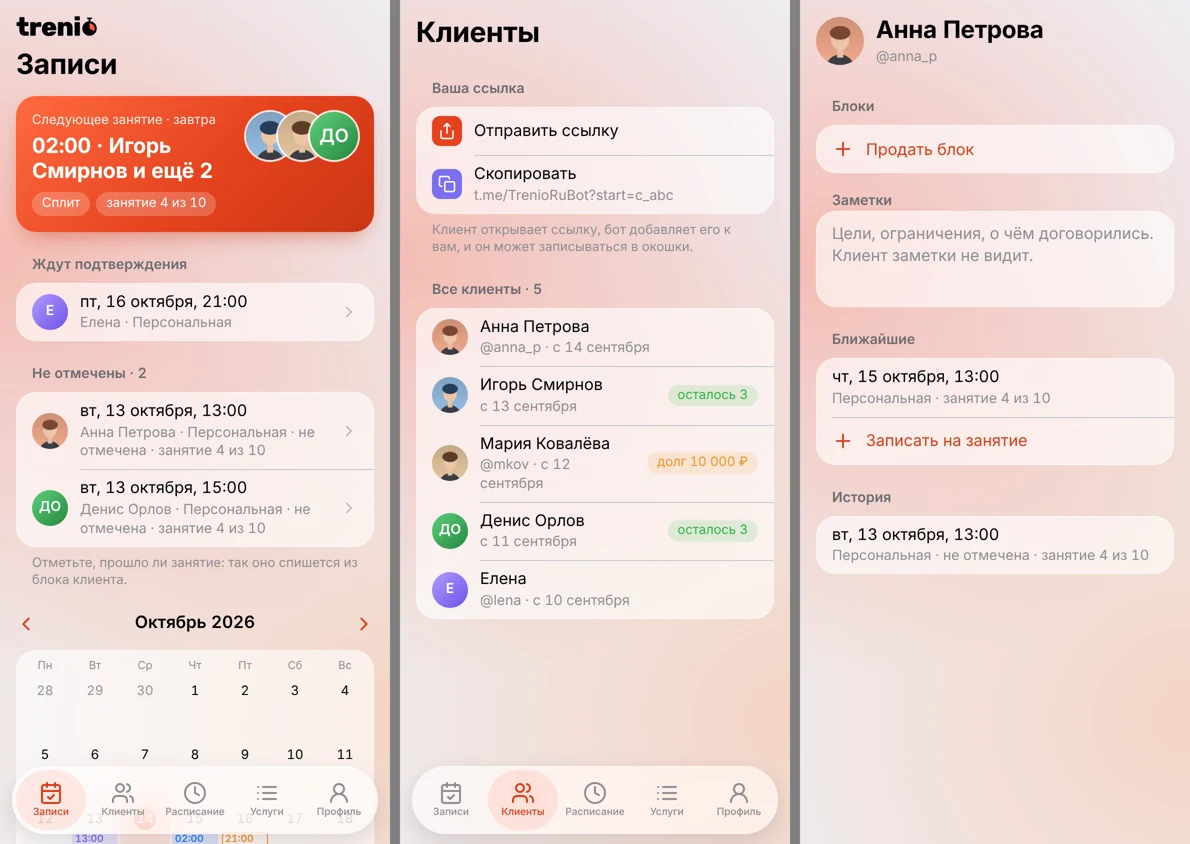
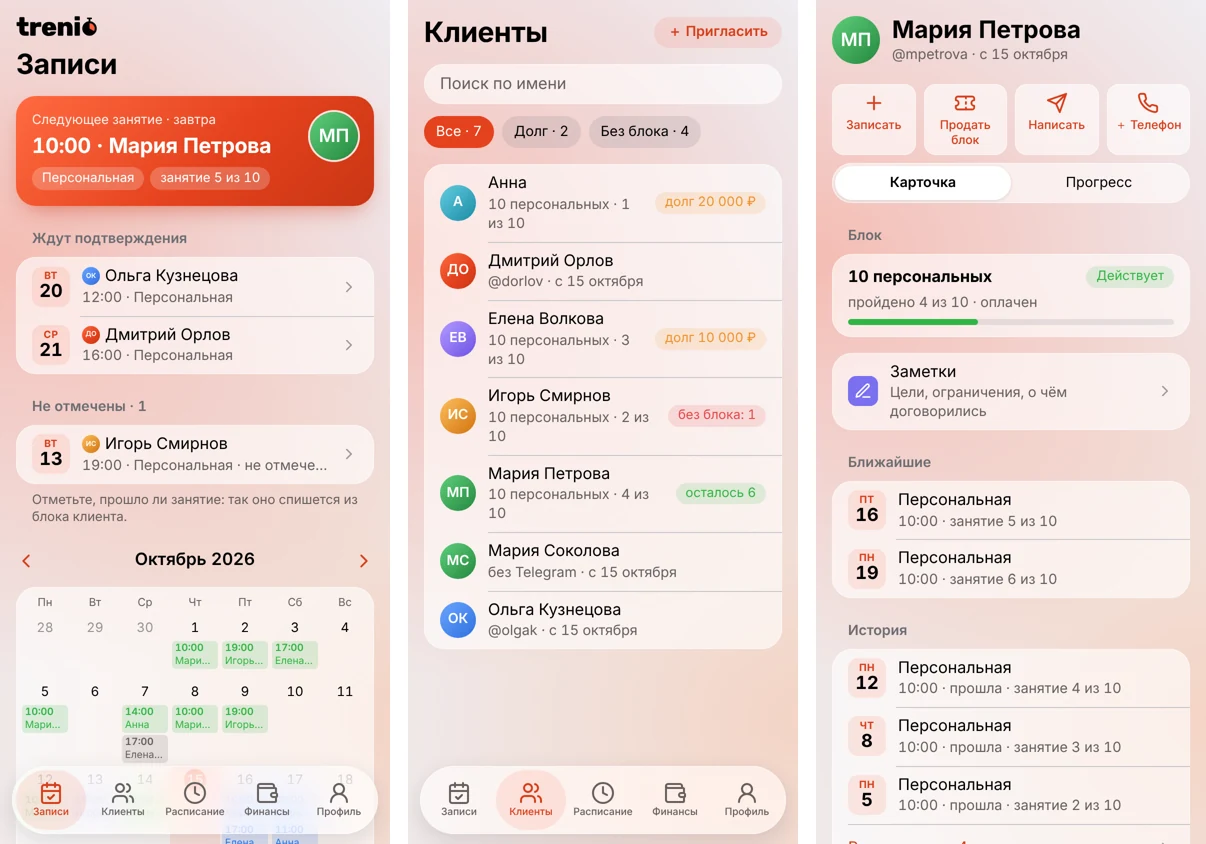
fix: отступ над подсказкой о блоке в карточке клиента (#69)

diff --git a/frontend/src/trainer/ClientCard.tsx b/frontend/src/trainer/ClientCard.tsx
@@ -235,12 +235,14 @@ export default function ClientCard({ client: initial, timezone, onBack, onChange
       {card !== null && (tab === 'card' || client.deleted) && (
         <>
           {client.deleted && (
-            <p className="card-hint missed">
+            <p className="card-hint client-hint missed">
               Клиент удалил аккаунт. Его прошедшие занятия и оплаты остались для учёта, записать его
               больше нельзя.
             </p>
           )}
-          {hint && !client.deleted && <p className={`card-hint ${hint.tone}`}>{hint.text}</p>}
+          {hint && !client.deleted && (
+            <p className={`card-hint client-hint ${hint.tone}`}>{hint.text}</p>
+          )}
           {current.length > 0 && (
             <Section title="Блок">
               {current.map((item) => (

diff --git a/frontend/src/index.css b/frontend/src/index.css
@@ -1585,6 +1585,11 @@ button.time:active,
   box-shadow: inset 3px 0 0 var(--c-tone);
 }
 
+/* В карточке клиента подсказка стоит под переключателем «Карточка / Прогресс»: не впритык */
+.client-hint {
+  margin-top: var(--s-3);
+}
+
 /* ===== Расписание на месяц ===== */
 
 .month-hours {

diff --git a/README.md b/README.md
@@ -44,10 +44,28 @@
 что у тренера нет другого занятия. Запись можно перенести или отменить с комментарием,
 клиент увидит причину.
 
-**Клиенты.** Личная ссылка для клиентов (отправить в Telegram или скопировать): клиент
-открывает её, бот добавляет его к тренеру, и он может записываться. В списке видно,
-у кого заканчивается блок и кто должен денег. В карточке клиента его блоки, заметки
-(клиент их не видит), ближайшие занятия и история.
+**Клиенты.** Поиск по имени и фильтры: у кого кончается блок, кто должен, у кого записи
+без блока. Под именем видно, сколько занятий блока пройдено. Кнопка «＋ Пригласить» открывает
+личную ссылку для клиентов (отправить в Telegram или скопировать): клиент открывает её,
+бот добавляет его к тренеру, и он может записываться.
+
+**Карточка клиента.** Сверху четыре кнопки: записать, продать блок, написать в Telegram
+и телефон. Ниже действующий блок с полоской прогресса, заметки (клиент их не видит),
+ближайшие занятия и три последних прошедших, остальное в «Вся история». На второй вкладке
+прогресс клиента: замеры с графиками.
+
+![Детали записи, действия свайпом и плашка «Отменить»](docs/images/trainer-booking-actions.webp)
+
+**Действия с записью.** В деталях записи сверху сводка: клиент, время, услуга, место,
+статус. После занятия три кнопки: «Прошла», «Пропуск, списать», «Пропуск, не списывать».
+То же быстрее делается свайпом влево по строке записи: у прошедшей «Пропуск» и «Пришёл»
+(полный свайп сразу отмечает «Пришёл»), у заявки «Отклонить» и «Подтвердить», у будущей
+«Перенести» и «Отменить».
+
+**«Отменить» вместо «Вы уверены?».** Отметка посещения, удаление заметки, телефона,
+замера, оплаты или рабочих часов срабатывает сразу, а внизу 5 секунд висит плашка
+«Отменить». Подтверждение спрашивается только там, где ошибку не вернуть: удаление
+аккаунта, блока с оплатами, объединение клиентов.
 
 ![Клиенты без Telegram: список, новый клиент и карточка](docs/images/trainer-offline-clients.webp)
 
@@ -57,7 +75,7 @@
 карточки: когда он откроет её в Telegram, вся история, записи и блоки перейдут к нему.
 Если клиент уже успел зайти по общей ссылке, две карточки можно объединить.
 
-![Расписание, профиль и услуги](docs/images/schedule-profile-services.webp)
+![Расписание, профиль и настройки записи](docs/images/trainer-schedule-profile.webp)
 
 **Расписание.** Шаблон рабочей недели и календарь месяца, где на любую дату можно задать
 свои часы или выходной. Несколько дней правятся разом, неделю можно повторить на следующие.
@@ -68,9 +86,11 @@
 пропадает из окошек, но остаётся в истории. Там же шаблоны блоков и правила занятий:
 клиент принимает их перед первой записью.
 
-**Профиль.** Имя и фото, которые видят клиенты, адрес зала, часовой пояс, подтверждать ли
-записи сразу или вручную, срок отмены (позже клиент отменить не сможет, только написать
-тренеру), шаг времени начала занятия и напоминания.
+**Профиль.** Сверху имя, фото и адрес с кнопкой «Изменить». Ниже три группы.
+«Работа»: услуги и блоки, правила занятий и экран «Как клиенты записываются»
+(подтверждать ли записи сразу, срок отмены, шаг времени начала, можно ли записываться без блока).
+«Уведомления»: напоминания. «Ещё»: «Trenio на экране телефона», повтор вводного тура,
+админ-панель и данные аккаунта.
 
 ### Блоки и посещения
 
@@ -105,7 +125,7 @@
 «Как в прошлый раз» предлагает ближайшее свободное окошко с той же услугой, днём недели
 и временем, что в последней записи, и записывает одним нажатием.
 
-![Записи клиента: предстоящие и история](docs/images/client-bookings.webp)
+![Запись и «Мои занятия» клиента](docs/images/client-bookings.webp)
 
 **Мои занятия.** Ближайшее занятие, действующие блоки с полоской (сколько пройдено и оплачено)
 и три вкладки. «Предстоящие» по дням: запись можно перенести или отменить с комментарием,
@@ -133,8 +153,10 @@
 - обоим: в блоке осталось два занятия, одно или блок закончился.
 
 Под уведомлениями есть кнопки: тренер подтверждает или отклоняет заявку и отмечает
-«прошла» или «пропуск», клиент может отменить запись. Многое делается, не открывая приложение. Напоминание приходит ровно один раз, даже если сервер
-перезапустился.
+«прошла» или «пропуск», клиент может отменить запись. Многое делается, не открывая приложение.
+Кнопка «Открыть заявку», «Открыть запись» или «Открыть клиента» открывает Mini App сразу
+на нужном экране. Если запись уже отменили, приложение скажет об этом плашкой.
+Напоминание приходит ровно один раз, даже если сервер перезапустился.
 
 ## Для админа
 
@@ -148,6 +170,19 @@
 
 В боте те же действия доступны командами: `/invite` (ссылка-приглашение тренера),
 `/trainers` (список), `/revoke` и `/restore` (отключить и вернуть доступ).
+
+## Удобство
+
+- **Вводный тур.** При первом входе тренер и клиент видят короткий тур по вкладкам,
+  повторить его можно из Профиля.
+- **Быстрые вкладки.** Данные вкладок кэшируются, переключение мгновенное, а свежие данные
+  подгружаются в фоне. Список обновляется жестом вниз и сам, когда возвращаешься в приложение.
+- **Без связи.** Если сервер недоступен, сверху появляется плашка «Нет связи с сервером»
+  с кнопкой «Повторить», а на экране остаётся то, что успело загрузиться.
+- **Ошибки.** Если что-то сломалось, вместо белого экрана показывается экран ошибки
+  с кнопкой перезапуска, а отчёт об ошибке приходит админу в Telegram.
+- **Значок на телефоне.** Trenio можно добавить на экран телефона. На третий день тренер
+  один раз видит подсказку об этом, если Telegram это поддерживает.
 
 ## Внешний вид
 
